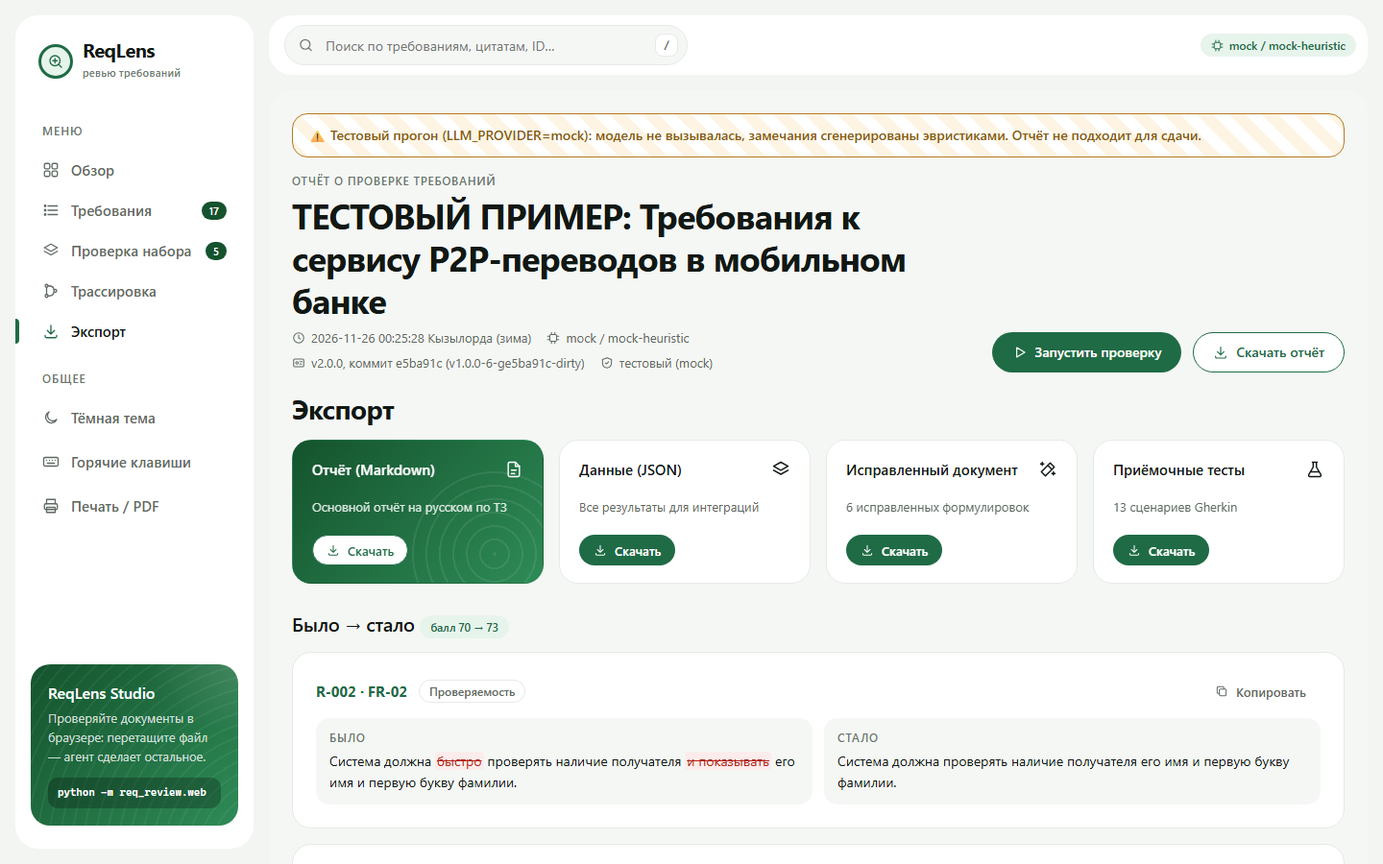
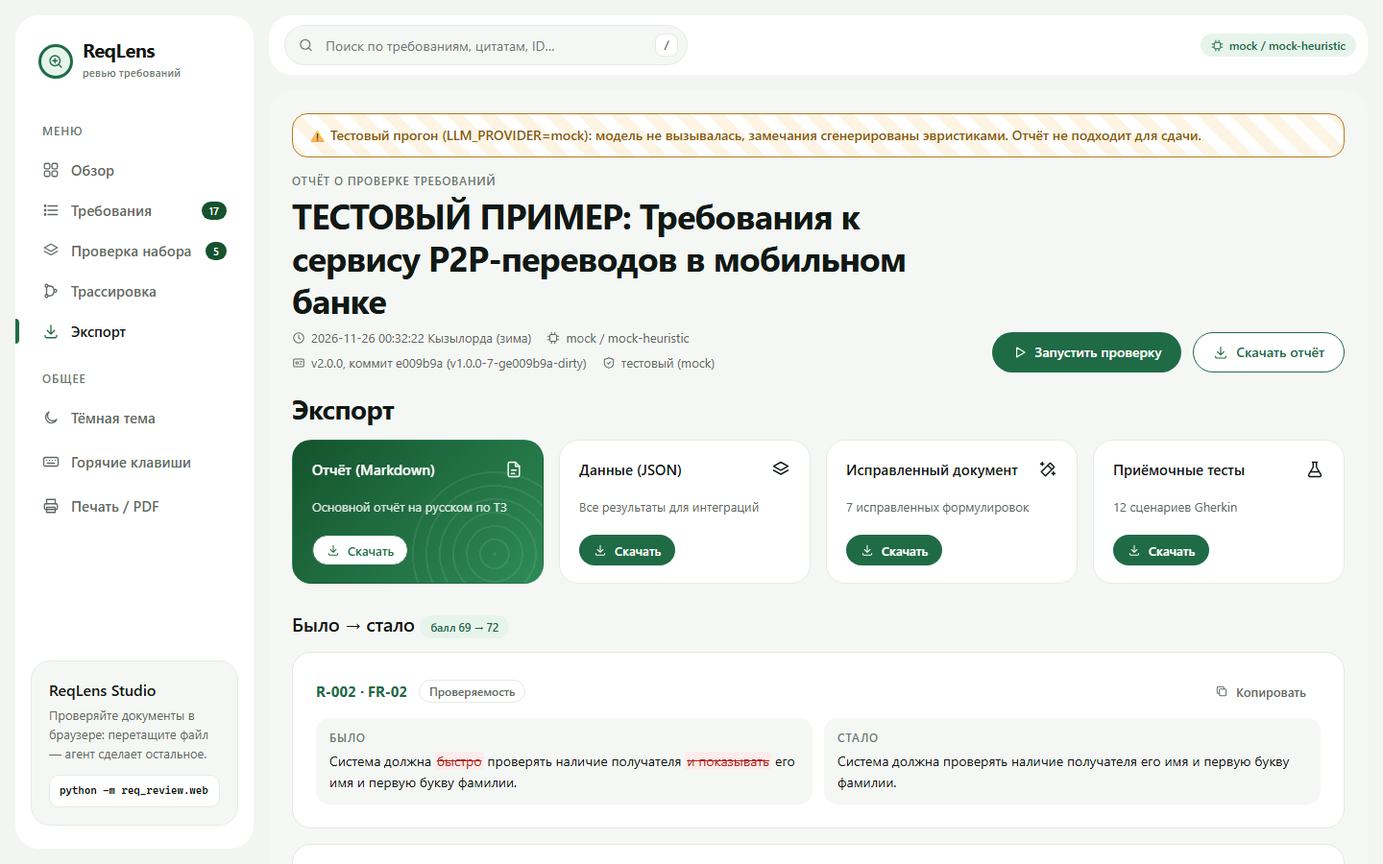
UI: нейтральные состояния, профиль качества полосами, легенда критериев; правило для целей без механизма (SEC-03)

Changed region(s): [[0.0, 0.7467, 0.1875, 0.9644], [0.2812, 0.4044, 0.5312, 0.4356]]

diff --git a/design/styleguide.html b/design/styleguide.html
@@ -63,6 +63,7 @@
   --ok: #136C3A;
   --ok-accent: #1F9D55;
   --ok-soft: #E7F6EE;
+  --neutral-bar: #D9DED9;
   --overlay: rgba(17,24,19,.32);
   color-scheme: light;
 }
@@ -93,6 +94,7 @@
   --ok: #136C3A;
   --ok-accent: #1F9D55;
   --ok-soft: #E7F6EE;
+  --neutral-bar: #D9DED9;
   --overlay: rgba(17,24,19,.32);
   color-scheme: light;
 }
@@ -123,6 +125,7 @@
   --ok: #6FD49A;
   --ok-accent: #1F9D55;
   --ok-soft: rgba(31,157,85,.16);
+  --neutral-bar: #3A4740;
   --overlay: rgba(0,0,0,.55);
   color-scheme: dark;
 }
@@ -170,10 +173,9 @@ button{font-family:inherit}
 .nav-item[aria-current=page]::before{content:"";position:absolute;left:-16px;top:8px;bottom:8px;width:4px;border-radius:0 4px 4px 0;background:var(--brand)}
 .nav-item[aria-current=page] .ic{color:var(--brand)}
 .nav-item .count{margin-left:auto;font:600 11px/1 var(--font-sans);padding:4px 8px;border-radius:999px;background:var(--brand-dark);color:#fff}
-.promo{margin-top:auto;border-radius:20px;padding:18px;color:#fff;background:radial-gradient(160px 120px at 100% 0%,rgba(255,255,255,.14),transparent 60%),
-  repeating-radial-gradient(circle at 120% 120%,rgba(255,255,255,.05) 0 2px,transparent 2px 12px),var(--grad-hero)}
-.promo .h3{color:#fff}.promo p{color:rgba(255,255,255,.78);font:var(--t-small);margin:4px 0 12px}
-.promo code{display:block;font:500 11px/16px var(--font-mono);background:rgba(0,0,0,.25);padding:8px 10px;border-radius:10px;color:#fff;word-break:break-all}
+.promo{margin-top:auto;border-radius:20px;padding:18px;background:var(--surface-2);border:1px solid var(--border);color:var(--text)}
+.promo .h3{color:var(--text)}.promo p{color:var(--text-2);font:var(--t-small);margin:4px 0 12px}
+.promo code{display:block;font:500 11px/16px var(--font-mono);background:var(--surface);border:1px solid var(--border);padding:8px 10px;border-radius:10px;color:var(--text);word-break:break-all}
 .main{min-width:0;background:var(--bg);display:flex;flex-direction:column;gap:16px}
 .topbar{display:flex;align-items:center;gap:12px;background:var(--surface);border-radius:var(--r-hero);padding:10px 12px 10px 16px}
 .topbar .search{max-width:420px}
@@ -477,6 +479,19 @@ pre.code{margin:0;padding:12px 14px;border-radius:12px;background:var(--surface-
 .pagebar .logo{padding:0}
 .kpi{min-width:0}.kpi .sub{flex-wrap:wrap}
 
+/* --- Нейтральные элементы, профиль качества, легенды, колонки обзора */
+.chip-neutral{background:transparent;color:var(--text-2);border-color:var(--border)}
+.prof-rows{display:flex;flex-direction:column;justify-content:space-around;flex:1;gap:6px}
+.prof-row{display:grid;grid-template-columns:minmax(150px,220px) 1fr 64px;gap:12px;align-items:center}
+.prof-row .bar{height:12px}
+.prof{display:flex;flex-direction:column}
+.legend,.crit-legend{display:flex;flex-wrap:wrap;gap:8px 16px;align-items:center;margin-top:14px}
+.legend i,.crit-legend i{display:inline-block;width:10px;height:10px;border-radius:3px;margin-right:6px;vertical-align:-1px}
+.crit-legend{margin:0 0 10px;justify-content:space-between}
+.col-fill{display:flex;flex-direction:column;gap:16px;min-width:0}
+.col-fill>:last-child{flex:1}
+@media (max-width:640px){.prof-row{grid-template-columns:1fr 56px}.prof-row .bar{grid-column:1/-1;grid-row:2}}
+
 .sg-section{padding:48px 0;border-bottom:1px solid var(--border)}
 .sg-h{display:flex;align-items:baseline;gap:12px;margin-bottom:24px}
 .swatches{display:grid;grid-template-columns:repeat(auto-fill,minmax(150px,1fr));gap:12px}
@@ -510,11 +525,11 @@ pre.code{margin:0;padding:12px 14px;border-radius:12px;background:var(--surface-
     
     <div class="caption" style="margin:16px 0 10px">light</div>
     <div class="swatches" data-theme="light" style="background:var(--bg);padding:16px;border-radius:16px">
-      <div class="sw"><i style="background:#F3F5F3"></i><div>--bg<br><code>#F3F5F3</code></div></div><div class="sw"><i style="background:#FFFFFF"></i><div>--surface<br><code>#FFFFFF</code></div></div><div class="sw"><i style="background:#F5F7F5"></i><div>--surface-2<br><code>#F5F7F5</code></div></div><div class="sw"><i style="background:#E6EAE7"></i><div>--border<br><code>#E6EAE7</code></div></div><div class="sw"><i style="background:#111813"></i><div>--text<br><code>#111813</code></div></div><div class="sw"><i style="background:#5E6A62"></i><div>--text-2<br><code>#5E6A62</code></div></div><div class="sw"><i style="background:#6B776F"></i><div>--text-3<br><code>#6B776F</code></div></div><div class="sw"><i style="background:#1F6B45"></i><div>--brand<br><code>#1F6B45</code></div></div><div class="sw"><i style="background:#14532D"></i><div>--brand-hover<br><code>#14532D</code></div></div><div class="sw"><i style="background:#14532D"></i><div>--brand-dark<br><code>#14532D</code></div></div><div class="sw"><i style="background:#3FA06B"></i><div>--brand-light<br><code>#3FA06B</code></div></div><div class="sw"><i style="background:#E7F4EC"></i><div>--brand-soft<br><code>#E7F4EC</code></div></div><div class="sw"><i style="background:#FFFFFF"></i><div>--on-brand<br><code>#FFFFFF</code></div></div><div class="sw"><i style="background:linear-gradient(135deg, #14532D 0%, #2E8B57 100%)"></i><div>--grad-hero<br><code>linear-gradient(135deg, #14532D 0%, #2E8B57 100%)</code></div></div><div class="sw"><i style="background:#B42318"></i><div>--critical<br><code>#B42318</code></div></div><div class="sw"><i style="background:#D64545"></i><div>--critical-accent<br><code>#D64545</code></div></div><div class="sw"><i style="background:#FDECEC"></i><div>--critical-soft<br><code>#FDECEC</code></div></div><div class="sw"><i style="background:#8A5A12"></i><div>--major<br><code>#8A5A12</code></div></div><div class="sw"><i style="background:#B7791F"></i><div>--major-accent<br><code>#B7791F</code></div></div><div class="sw"><i style="background:#FDF4E3"></i><div>--major-soft<br><code>#FDF4E3</code></div></div><div class="sw"><i style="background:#5F5A16"></i><div>--minor<br><code>#5F5A16</code></div></div><div class="sw"><i style="background:#B8A532"></i><div>--minor-accent<br><code>#B8A532</code></div></div><div class="sw"><i style="background:#F7F5E3"></i><div>--minor-soft<br><code>#F7F5E3</code></div></div><div class="sw"><i style="background:#136C3A"></i><div>--ok<br><code>#136C3A</code></div></div><div class="sw"><i style="background:#1F9D55"></i><div>--ok-accent<br><code>#1F9D55</code></div></div><div class="sw"><i style="background:#E7F6EE"></i><div>--ok-soft<br><code>#E7F6EE</code></div></div><div class="sw"><i style="background:rgba(17,24,19,.32)"></i><div>--overlay<br><code>rgba(17,24,19,.32)</code></div></div>
+      <div class="sw"><i style="background:#F3F5F3"></i><div>--bg<br><code>#F3F5F3</code></div></div><div class="sw"><i style="background:#FFFFFF"></i><div>--surface<br><code>#FFFFFF</code></div></div><div class="sw"><i style="background:#F5F7F5"></i><div>--surface-2<br><code>#F5F7F5</code></div></div><div class="sw"><i style="background:#E6EAE7"></i><div>--border<br><code>#E6EAE7</code></div></div><div class="sw"><i style="background:#111813"></i><div>--text<br><code>#111813</code></div></div><div class="sw"><i style="background:#5E6A62"></i><div>--text-2<br><code>#5E6A62</code></div></div><div class="sw"><i style="background:#6B776F"></i><div>--text-3<br><code>#6B776F</code></div></div><div class="sw"><i style="background:#1F6B45"></i><div>--brand<br><code>#1F6B45</code></div></div><div class="sw"><i style="background:#14532D"></i><div>--brand-hover<br><code>#14532D</code></div></div><div class="sw"><i style="background:#14532D"></i><div>--brand-dark<br><code>#14532D</code></div></div><div class="sw"><i style="background:#3FA06B"></i><div>--brand-light<br><code>#3FA06B</code></div></div><div class="sw"><i style="background:#E7F4EC"></i><div>--brand-soft<br><code>#E7F4EC</code></div></div><div class="sw"><i style="background:#FFFFFF"></i><div>--on-brand<br><code>#FFFFFF</code></div></div><div class="sw"><i style="background:linear-gradient(135deg, #14532D 0%, #2E8B57 100%)"></i><div>--grad-hero<br><code>linear-gradient(135deg, #14532D 0%, #2E8B57 100%)</code></div></div><div class="sw"><i style="background:#B42318"></i><div>--critical<br><code>#B42318</code></div></div><div class="sw"><i style="background:#D64545"></i><div>--critical-accent<br><code>#D64545</code></div></div><div class="sw"><i style="background:#FDECEC"></i><div>--critical-soft<br><code>#FDECEC</code></div></div><div class="sw"><i style="background:#8A5A12"></i><div>--major<br><code>#8A5A12</code></div></div><div class="sw"><i style="background:#B7791F"></i><div>--major-accent<br><code>#B7791F</code></div></div><div class="sw"><i style="background:#FDF4E3"></i><div>--major-soft<br><code>#FDF4E3</code></div></div><div class="sw"><i style="background:#5F5A16"></i><div>--minor<br><code>#5F5A16</code></div></div><div class="sw"><i style="background:#B8A532"></i><div>--minor-accent<br><code>#B8A532</code></div></div><div class="sw"><i style="background:#F7F5E3"></i><div>--minor-soft<br><code>#F7F5E3</code></div></div><div class="sw"><i style="background:#136C3A"></i><div>--ok<br><code>#136C3A</code></div></div><div class="sw"><i style="background:#1F9D55"></i><div>--ok-accent<br><code>#1F9D55</code></div></div><div class="sw"><i style="background:#E7F6EE"></i><div>--ok-soft<br><code>#E7F6EE</code></div></div><div class="sw"><i style="background:#D9DED9"></i><div>--neutral-bar<br><code>#D9DED9</code></div></div><div class="sw"><i style="background:rgba(17,24,19,.32)"></i><div>--overlay<br><code>rgba(17,24,19,.32)</code></div></div>
     </div>
     <div class="caption" style="margin:16px 0 10px">dark</div>
     <div class="swatches" data-theme="dark" style="background:var(--bg);padding:16px;border-radius:16px">
-      <div class="sw"><i style="background:#0E1410"></i><div>--bg<br><code>#0E1410</code></div></div><div class="sw"><i style="background:#151D18"></i><div>--surface<br><code>#151D18</code></div></div><div class="sw"><i style="background:#1B2620"></i><div>--surface-2<br><code>#1B2620</code></div></div><div class="sw"><i style="background:#26332B"></i><div>--border<br><code>#26332B</code></div></div><div class="sw"><i style="background:#EEF3EF"></i><div>--text<br><code>#EEF3EF</code></div></div><div class="sw"><i style="background:#A7B5AC"></i><div>--text-2<br><code>#A7B5AC</code></div></div><div class="sw"><i style="background:#93A198"></i><div>--text-3<br><code>#93A198</code></div></div><div class="sw"><i style="background:#4CC07F"></i><div>--brand<br><code>#4CC07F</code></div></div><div class="sw"><i style="background:#6FD49A"></i><div>--brand-hover<br><code>#6FD49A</code></div></div><div class="sw"><i style="background:#14532D"></i><div>--brand-dark<br><code>#14532D</code></div></div><div class="sw"><i style="background:#3FA06B"></i><div>--brand-light<br><code>#3FA06B</code></div></div><div class="sw"><i style="background:rgba(63,160,107,.16)"></i><div>--brand-soft<br><code>rgba(63,160,107,.16)</code></div></div><div class="sw"><i style="background:#0E1410"></i><div>--on-brand<br><code>#0E1410</code></div></div><div class="sw"><i style="background:linear-gradient(135deg, #14532D 0%, #2E8B57 100%)"></i><div>--grad-hero<br><code>linear-gradient(135deg, #14532D 0%, #2E8B57 100%)</code></div></div><div class="sw"><i style="background:#FF8A80"></i><div>--critical<br><code>#FF8A80</code></div></div><div class="sw"><i style="background:#D64545"></i><div>--critical-accent<br><code>#D64545</code></div></div><div class="sw"><i style="background:rgba(214,69,69,.16)"></i><div>--critical-soft<br><code>rgba(214,69,69,.16)</code></div></div><div class="sw"><i style="background:#F2C26B"></i><div>--major<br><code>#F2C26B</code></div></div><div class="sw"><i style="background:#B7791F"></i><div>--major-accent<br><code>#B7791F</code></div></div><div class="sw"><i style="background:rgba(183,121,31,.18)"></i><div>--major-soft<br><code>rgba(183,121,31,.18)</code></div></div><div class="sw"><i style="background:#E3D47A"></i><div>--minor<br><code>#E3D47A</code></div></div><div class="sw"><i style="background:#B8A532"></i><div>--minor-accent<br><code>#B8A532</code></div></div><div class="sw"><i style="background:rgba(184,165,50,.16)"></i><div>--minor-soft<br><code>rgba(184,165,50,.16)</code></div></div><div class="sw"><i style="background:#6FD49A"></i><div>--ok<br><code>#6FD49A</code></div></div><div class="sw"><i style="background:#1F9D55"></i><div>--ok-accent<br><code>#1F9D55</code></div></div><div class="sw"><i style="background:rgba(31,157,85,.16)"></i><div>--ok-soft<br><code>rgba(31,157,85,.16)</code></div></div><div class="sw"><i style="background:rgba(0,0,0,.55)"></i><div>--overlay<br><code>rgba(0,0,0,.55)</code></div></div>
+      <div class="sw"><i style="background:#0E1410"></i><div>--bg<br><code>#0E1410</code></div></div><div class="sw"><i style="background:#151D18"></i><div>--surface<br><code>#151D18</code></div></div><div class="sw"><i style="background:#1B2620"></i><div>--surface-2<br><code>#1B2620</code></div></div><div class="sw"><i style="background:#26332B"></i><div>--border<br><code>#26332B</code></div></div><div class="sw"><i style="background:#EEF3EF"></i><div>--text<br><code>#EEF3EF</code></div></div><div class="sw"><i style="background:#A7B5AC"></i><div>--text-2<br><code>#A7B5AC</code></div></div><div class="sw"><i style="background:#93A198"></i><div>--text-3<br><code>#93A198</code></div></div><div class="sw"><i style="background:#4CC07F"></i><div>--brand<br><code>#4CC07F</code></div></div><div class="sw"><i style="background:#6FD49A"></i><div>--brand-hover<br><code>#6FD49A</code></div></div><div class="sw"><i style="background:#14532D"></i><div>--brand-dark<br><code>#14532D</code></div></div><div class="sw"><i style="background:#3FA06B"></i><div>--brand-light<br><code>#3FA06B</code></div></div><div class="sw"><i style="background:rgba(63,160,107,.16)"></i><div>--brand-soft<br><code>rgba(63,160,107,.16)</code></div></div><div class="sw"><i style="background:#0E1410"></i><div>--on-brand<br><code>#0E1410</code></div></div><div class="sw"><i style="background:linear-gradient(135deg, #14532D 0%, #2E8B57 100%)"></i><div>--grad-hero<br><code>linear-gradient(135deg, #14532D 0%, #2E8B57 100%)</code></div></div><div class="sw"><i style="background:#FF8A80"></i><div>--critical<br><code>#FF8A80</code></div></div><div class="sw"><i style="background:#D64545"></i><div>--critical-accent<br><code>#D64545</code></div></div><div class="sw"><i style="background:rgba(214,69,69,.16)"></i><div>--critical-soft<br><code>rgba(214,69,69,.16)</code></div></div><div class="sw"><i style="background:#F2C26B"></i><div>--major<br><code>#F2C26B</code></div></div><div class="sw"><i style="background:#B7791F"></i><div>--major-accent<br><code>#B7791F</code></div></div><div class="sw"><i style="background:rgba(183,121,31,.18)"></i><div>--major-soft<br><code>rgba(183,121,31,.18)</code></div></div><div class="sw"><i style="background:#E3D47A"></i><div>--minor<br><code>#E3D47A</code></div></div><div class="sw"><i style="background:#B8A532"></i><div>--minor-accent<br><code>#B8A532</code></div></div><div class="sw"><i style="background:rgba(184,165,50,.16)"></i><div>--minor-soft<br><code>rgba(184,165,50,.16)</code></div></div><div class="sw"><i style="background:#6FD49A"></i><div>--ok<br><code>#6FD49A</code></div></div><div class="sw"><i style="background:#1F9D55"></i><div>--ok-accent<br><code>#1F9D55</code></div></div><div class="sw"><i style="background:rgba(31,157,85,.16)"></i><div>--ok-soft<br><code>rgba(31,157,85,.16)</code></div></div><div class="sw"><i style="background:#3A4740"></i><div>--neutral-bar<br><code>#3A4740</code></div></div><div class="sw"><i style="background:rgba(0,0,0,.55)"></i><div>--overlay<br><code>rgba(0,0,0,.55)</code></div></div>
     </div>
   </section>
 

diff --git a/req_review/ui/assets/report.js b/req_review/ui/assets/report.js
@@ -171,6 +171,26 @@
         <div class="grow"><div class="small" style="font-weight:600">${esc(c.name)}</div><div class="small faint">${esc(c.ref)}</div></div>
         ${c.count ? chip(c.worst, `${c.count} замеч.`) : chip("ok", "нарушений нет")}</div>`).join("")}</div>`;
   }
+  // «Профиль качества»: горизонтальные полосы с полными названиями; серые — в порядке, цветные — по тяжести
+  function profileHTML() {
+    const rows = D.scores.radar_req.map((r) => {
+      const fs = Object.values(D.findings).filter((f) => f.kind === "req" && f.criterion === r.key);
+      const worst = fs.length ? fs.reduce((a, f) => (ORDER[f.severity] < ORDER[a] ? f.severity : a), "minor") : "ok";
+      const nreq = new Set(fs.map((f) => f.rid)).size;
+      const name = r.name.replace(/\s*\(.*\)/, "");
+      const col = worst === "ok" ? "var(--neutral-bar)" : SEV[worst].color;
+      const st = worst === "ok" ? "в порядке" : `${SEV[worst].label.toLowerCase()}: ${nreq} треб.`;
+      return `<div class="prof-row" title="${esc(r.name)} — ${r.v}% требований без нарушений · ${esc(st)}">
+        <span class="small${worst === "ok" ? " muted" : ""}" style="font-weight:${worst === "ok" ? 400 : 600}">${esc(name)}</span>
+        <div class="bar"><i style="width:${Math.max(3, r.v)}%;background:${col}"></i></div>
+        <span class="small" style="text-align:right">${worst === "ok" ? `<span class="muted">${r.v}%</span>` : `${ic(SEV[worst].icon, 12)} ${r.v}%`}</span></div>`;
+    }).join("");
+    return `<div class="card prof"><div class="card-title">${ic("spark")}<span class="h2 grow">Профиль качества</span>
+        <span class="small muted">доля требований без нарушений</span></div>
+      <div class="prof-rows">${rows}</div>
+      <div class="legend small muted"><span><i style="background:var(--neutral-bar)"></i>в порядке</span><span><i style="background:${SEV.minor.color}"></i>незначительные</span>
+        <span><i style="background:${SEV.major.color}"></i>существенные</span><span><i style="background:${SEV.critical.color}"></i>критичные</span></div></div>`;
+  }
   function renderOverview(el) {
     const s = D.scores, v = D.verdict;
     // статус прогона агента (не готовность документа): ЗАВЕРШЁН / ОШИБКА
@@ -187,8 +207,8 @@
         ${kpi("Критичных", crit, `${ic("alert", 14)}непроверяемые, противоречивые, неполные`, false, "reqs", crit ? "var(--critical)" : "var(--ok)")}
         ${kpi("Без замечаний", cleanReqs, `<b>${Math.round((100 * cleanReqs) / Math.max(1, D.reqs.length))}%</b>из ${D.reqs.length} требований`, false, "reqs", "var(--ok)")}
       </div>
-      <div class="grid" style="grid-template-columns:minmax(0,1fr) minmax(280px,360px);margin-top:16px;align-items:start" id="ov-grid">
-        <div class="stack" style="min-width:0">
+      <div class="grid" style="grid-template-columns:minmax(0,1fr) minmax(280px,360px);margin-top:16px;align-items:stretch" id="ov-grid">
+        <div class="col-fill" style="min-width:0">
           <article class="agent" aria-label="Агент проверки требований">
             <span class="status ${agentStatus[0]}">${ic(agentStatus[1], 12)}${agentStatus[2]}</span>
             <div class="vis">${sphere(320, 260, 520, 7)}</div>
@@ -215,21 +235,20 @@
                 <div class="h3">Приёмочные тесты</div><div class="small muted">${s.tests_ok} из ${s.tests_total} требований можно проверить тестом</div>
                 <button class="btn btn-sm btn-ghost" style="align-self:flex-start;margin-top:auto" data-go-view="trace">Открыть ${ic("arrow-right", 14)}</button></div></article>
           </div>
+          ${profileHTML()}
         </div>
-        <div class="stack">
+        <div class="col-fill">
           <div class="card"><div class="card-title">${ic("trace")}<span class="h2 grow">Трассировка агента</span><span class="chip chip-brand">${D.trace.filter((t) => t.status !== "skip").length}/${D.trace.length}</span></div>${traceHTML()}</div>
-          <div class="card"><div class="card-title">${ic("spark")}<span class="h2">Профиль качества</span></div>
-            <div class="bars" role="img" aria-label="Доля требований без нарушений по критериям">${radar.map((r, i) => `<div class="b" data-tip="${esc(r.name)}: ${r.v}%"><i class="${r.v < 70 ? "hatch" : ""}" style="height:${Math.max(10, r.v)}%;${r.v >= 70 ? `opacity:${0.55 + r.v / 220}` : ""}"></i><span>${esc(r.name.slice(0, 3))}</span></div>`).join("")}</div>
-            <p class="small faint" style="margin-top:10px">Сплошные — критерий в порядке (≥ 70 % требований без нарушений), штрихованные — проблемные.</p></div>
           ${D.changes.length ? `<div class="card" style="display:flex;gap:14px;align-items:center"><span class="logo-mark" style="border-radius:14px;flex:none">${ic("wand")}</span>
             <div class="grow"><div class="caption">Исправленный документ</div><div class="small muted">${D.changes.length} формулировок исправлено${D.rescore ? ` · балл ${D.rescore.before} → ${D.rescore.after}` : ""}</div></div>
             <button class="btn btn-round" data-dl="fixed" aria-label="Скачать исправленный документ">${ic("download", 16)}</button></div>` : ""}
+          ${setSummaryHTML()}
         </div>
       </div>
       <div class="section-title"><h2 class="h1">Требования</h2><div class="row"><span class="small muted hide-sm">${D.reqs.length} шт.</span>
         <button class="btn btn-sm btn-outline" data-go-view="reqs">Все фильтры ${ic("arrow-right", 14)}</button></div></div>
       ${reqTable(D.reqs, "ov")}
-      <div class="grid g-2" style="margin-top:16px;align-items:start">${setSummaryHTML()}${verdictHTML(true)}</div>`;
+      <div style="margin-top:16px">${verdictHTML(true)}</div>`;
     wireTable(el);
   }
 
@@ -238,9 +257,16 @@
     return `<div class="crit-dots" aria-label="Критерии">${D.criteria.map((c) => {
       const fs = r.findings.map((id) => D.findings[id]).filter((x) => x.criterion === c.key);
       const s = fs.length ? fs.reduce((a, x) => (ORDER[x.severity] < ORDER[a] ? x.severity : a), "minor") : "ok";
-      return `<i data-tip="${esc(c.name)}: ${s === "ok" ? "в порядке" : SEV[s].label.toLowerCase()}" style="background:${s === "ok" ? "var(--ok-soft)" : SEV[s].color}"></i>`;
+      const tip = `${D.criteria.indexOf(c) + 1}. ${c.name}: ${s === "ok" ? "в порядке" : SEV[s].label.toLowerCase()}`;
+      return `<i title="${esc(tip)}" style="background:${s === "ok" ? "var(--neutral-bar)" : SEV[s].color}"></i>`;
     }).join("")}</div>`;
   }
+  // нейтральный вид для «чистых» требований: серый круг 100 и бейдж без заливки
+  const statusChip = (s) => (s === "ok" ? `<span class="chip chip-neutral">${ic("check", 13)}Без замечаний</span>` : chip(s));
+  const ring = (v) => `<div class="mini-ring" style="--v:${v};--c:${v >= 100 ? "var(--neutral-bar)" : scoreColor(v)}"><span${v >= 100 ? ' style="color:var(--text-2);font-weight:600"' : ""}>${v}</span></div>`;
+  const critLegend = () => `<div class="crit-legend small muted" aria-label="Легенда колонки «Критерии»">
+    <span><b>Критерии</b> (слева направо): ${D.criteria.map((c, i) => `${i + 1}. ${esc(c.name.replace(/\s*\(.*\)/, ""))}`).join(" · ")}</span>
+    <span class="row" style="gap:12px"><span><i style="background:var(--neutral-bar)"></i>в порядке</span><span><i style="background:${SEV.minor.color}"></i>незначит.</span><span><i style="background:${SEV.major.color}"></i>существ.</span><span><i style="background:${SEV.critical.color}"></i>критичное</span><span>· наведите на квадратик</span></span></div>`;
   function gherkin(g) { return esc(g).replace(/^(\s*)(Дано|Когда|Тогда|И|Но|Given|When|Then|And|But)(:?)/gm, "$1<b>$2$3</b>"); }
   function expandHTML(r) {
     const t = r.test;
@@ -260,15 +286,15 @@
   }
   function reqTable(rows, key) {
     if (!rows.length) return empty("Ничего не найдено", "Измените фильтры или запрос.");
-    return `<div class="table-wrap"><table class="tbl" data-tbl="${key}"><thead><tr>
+    return `${critLegend()}<div class="table-wrap"><table class="tbl" data-tbl="${key}"><thead><tr>
       <th scope="col">ID в отчёте</th><th scope="col">ID в документе</th><th scope="col">Краткая формулировка</th>
-      <th scope="col">Критерии</th><th scope="col">Балл</th><th scope="col">Статус</th><th scope="col"><span class="sr-only">Действия</span></th></tr></thead>
+      <th scope="col" title="${esc(D.criteria.map((c, i) => `${i + 1}. ${c.name}`).join("\n"))}">Критерии ⓘ</th><th scope="col">Балл</th><th scope="col">Статус</th><th scope="col"><span class="sr-only">Действия</span></th></tr></thead>
       <tbody>${rows.map((r) => `<tr class="rrow" data-rid="${r.rid}" id="row-${key}-${r.rid}">
         <td><b>${esc(r.rid)}</b></td><td>${r.doc_id ? `<span class="chip chip-brand">${esc(r.doc_id)}</span>` : `<span class="small faint">присвоен агентом</span>`}</td>
         <td style="min-width:260px;max-width:460px">${esc(r.text.length > 120 ? r.text.slice(0, 117) + "…" : r.text)}</td>
         <td>${critDots(r)}</td>
-        <td><div class="mini-ring" style="--v:${r.score};--c:${scoreColor(r.score)}"><span>${r.score}</span></div></td>
-        <td>${chip(r.worst)}</td>
+        <td>${ring(r.score)}</td>
+        <td>${statusChip(r.worst)}</td>
         <td><button class="btn btn-sm btn-outline" data-exp="${r.rid}" aria-expanded="false" aria-controls="exp-${key}-${r.rid}">Подробнее ${ic("chevron", 14)}</button></td></tr>
         <tr class="exp" id="exp-${key}-${r.rid}" hidden><td colspan="7">${expandHTML(r)}</td></tr>`).join("")}</tbody></table></div>`;
   }

diff --git a/bench/results.html b/bench/results.html
@@ -57,6 +57,7 @@
   --ok: #136C3A;
   --ok-accent: #1F9D55;
   --ok-soft: #E7F6EE;
+  --neutral-bar: #D9DED9;
   --overlay: rgba(17,24,19,.32);
   color-scheme: light;
 }
@@ -87,6 +88,7 @@
   --ok: #136C3A;
   --ok-accent: #1F9D55;
   --ok-soft: #E7F6EE;
+  --neutral-bar: #D9DED9;
   --overlay: rgba(17,24,19,.32);
   color-scheme: light;
 }
@@ -117,6 +119,7 @@
   --ok: #6FD49A;
   --ok-accent: #1F9D55;
   --ok-soft: rgba(31,157,85,.16);
+  --neutral-bar: #3A4740;
   --overlay: rgba(0,0,0,.55);
   color-scheme: dark;
 }
@@ -163,10 +166,9 @@ button{font-family:inherit}
 .nav-item[aria-current=page]::before{content:"";position:absolute;left:-16px;top:8px;bottom:8px;width:4px;border-radius:0 4px 4px 0;background:var(--brand)}
 .nav-item[aria-current=page] .ic{color:var(--brand)}
 .nav-item .count{margin-left:auto;font:600 11px/1 var(--font-sans);padding:4px 8px;border-radius:999px;background:var(--brand-dark);color:#fff}
-.promo{margin-top:auto;border-radius:20px;padding:18px;color:#fff;background:radial-gradient(160px 120px at 100% 0%,rgba(255,255,255,.14),transparent 60%),
-  repeating-radial-gradient(circle at 120% 120%,rgba(255,255,255,.05) 0 2px,transparent 2px 12px),var(--grad-hero)}
-.promo .h3{color:#fff}.promo p{color:rgba(255,255,255,.78);font:var(--t-small);margin:4px 0 12px}
-.promo code{display:block;font:500 11px/16px var(--font-mono);background:rgba(0,0,0,.25);padding:8px 10px;border-radius:10px;color:#fff;word-break:break-all}
+.promo{margin-top:auto;border-radius:20px;padding:18px;background:var(--surface-2);border:1px solid var(--border);color:var(--text)}
+.promo .h3{color:var(--text)}.promo p{color:var(--text-2);font:var(--t-small);margin:4px 0 12px}
+.promo code{display:block;font:500 11px/16px var(--font-mono);background:var(--surface);border:1px solid var(--border);padding:8px 10px;border-radius:10px;color:var(--text);word-break:break-all}
 .main{min-width:0;background:var(--bg);display:flex;flex-direction:column;gap:16px}
 .topbar{display:flex;align-items:center;gap:12px;background:var(--surface);border-radius:var(--r-hero);padding:10px 12px 10px 16px}
 .topbar .search{max-width:420px}
@@ -469,10 +471,23 @@ pre.code{margin:0;padding:12px 14px;border-radius:12px;background:var(--surface-
 .pagebar{display:flex;align-items:center;gap:12px;background:var(--surface);border-radius:var(--r-hero);padding:14px 20px;margin:16px auto;max-width:var(--max-width)}
 .pagebar .logo{padding:0}
 .kpi{min-width:0}.kpi .sub{flex-wrap:wrap}
+
+/* --- Нейтральные элементы, профиль качества, легенды, колонки обзора */
+.chip-neutral{background:transparent;color:var(--text-2);border-color:var(--border)}
+.prof-rows{display:flex;flex-direction:column;justify-content:space-around;flex:1;gap:6px}
+.prof-row{display:grid;grid-template-columns:minmax(150px,220px) 1fr 64px;gap:12px;align-items:center}
+.prof-row .bar{height:12px}
+.prof{display:flex;flex-direction:column}
+.legend,.crit-legend{display:flex;flex-wrap:wrap;gap:8px 16px;align-items:center;margin-top:14px}
+.legend i,.crit-legend i{display:inline-block;width:10px;height:10px;border-radius:3px;margin-right:6px;vertical-align:-1px}
+.crit-legend{margin:0 0 10px;justify-content:space-between}
+.col-fill{display:flex;flex-direction:column;gap:16px;min-width:0}
+.col-fill>:last-child{flex:1}
+@media (max-width:640px){.prof-row{grid-template-columns:1fr 56px}.prof-row .bar{grid-column:1/-1;grid-row:2}}
 </style></head><body>
 <header class="pagebar"><div class="logo"><span class="logo-mark"><svg class="ic " width="18" height="18" viewBox="0 0 24 24" fill="none" stroke="currentColor" stroke-width="1.75" stroke-linecap="round" stroke-linejoin="round" aria-hidden="true"><circle cx="11" cy="11" r="7"/><path d="m20 20-3.5-3.5"/><path d="M8 11h6M11 8v6"/></svg></span><span>ReqLens<small>Бенчмарк точности</small></span></div></header>
 <main class="container" style="padding:40px 24px">
-<div class="caption">mock / mock-heuristic · v2.0.0, коммит 956571d (v1.0.0-5-g956571d-dirty)</div><h1 class="display" style="margin:8px 0 24px">Насколько точен агент</h1>
+<div class="caption">mock / mock-heuristic · v2.0.0, коммит e009b9a (v1.0.0-7-ge009b9a-dirty)</div><h1 class="display" style="margin:8px 0 24px">Насколько точен агент</h1>
 <div class="grid g-4" style="margin-bottom:32px">
  <article class="kpi kpi-hero"><span class="lbl">Recall</span><div class="kpi-num">69 %</div><div class="sub">доля найденных внедрённых дефектов</div></article>
  <div class="stat"><div class="caption">Precision</div><div class="v">100 %</div></div>

diff --git a/docs/slides.html b/docs/slides.html
@@ -63,6 +63,7 @@
   --ok: #136C3A;
   --ok-accent: #1F9D55;
   --ok-soft: #E7F6EE;
+  --neutral-bar: #D9DED9;
   --overlay: rgba(17,24,19,.32);
   color-scheme: light;
 }
@@ -93,6 +94,7 @@
   --ok: #136C3A;
   --ok-accent: #1F9D55;
   --ok-soft: #E7F6EE;
+  --neutral-bar: #D9DED9;
   --overlay: rgba(17,24,19,.32);
   color-scheme: light;
 }
@@ -123,6 +125,7 @@
   --ok: #6FD49A;
   --ok-accent: #1F9D55;
   --ok-soft: rgba(31,157,85,.16);
+  --neutral-bar: #3A4740;
   --overlay: rgba(0,0,0,.55);
   color-scheme: dark;
 }
@@ -170,10 +173,9 @@ button{font-family:inherit}
 .nav-item[aria-current=page]::before{content:"";position:absolute;left:-16px;top:8px;bottom:8px;width:4px;border-radius:0 4px 4px 0;background:var(--brand)}
 .nav-item[aria-current=page] .ic{color:var(--brand)}
 .nav-item .count{margin-left:auto;font:600 11px/1 var(--font-sans);padding:4px 8px;border-radius:999px;background:var(--brand-dark);color:#fff}
-.promo{margin-top:auto;border-radius:20px;padding:18px;color:#fff;background:radial-gradient(160px 120px at 100% 0%,rgba(255,255,255,.14),transparent 60%),
-  repeating-radial-gradient(circle at 120% 120%,rgba(255,255,255,.05) 0 2px,transparent 2px 12px),var(--grad-hero)}
-.promo .h3{color:#fff}.promo p{color:rgba(255,255,255,.78);font:var(--t-small);margin:4px 0 12px}
-.promo code{display:block;font:500 11px/16px var(--font-mono);background:rgba(0,0,0,.25);padding:8px 10px;border-radius:10px;color:#fff;word-break:break-all}
+.promo{margin-top:auto;border-radius:20px;padding:18px;background:var(--surface-2);border:1px solid var(--border);color:var(--text)}
+.promo .h3{color:var(--text)}.promo p{color:var(--text-2);font:var(--t-small);margin:4px 0 12px}
+.promo code{display:block;font:500 11px/16px var(--font-mono);background:var(--surface);border:1px solid var(--border);padding:8px 10px;border-radius:10px;color:var(--text);word-break:break-all}
 .main{min-width:0;background:var(--bg);display:flex;flex-direction:column;gap:16px}
 .topbar{display:flex;align-items:center;gap:12px;background:var(--surface);border-radius:var(--r-hero);padding:10px 12px 10px 16px}
 .topbar .search{max-width:420px}
@@ -476,6 +478,19 @@ pre.code{margin:0;padding:12px 14px;border-radius:12px;background:var(--surface-
 .pagebar{display:flex;align-items:center;gap:12px;background:var(--surface);border-radius:var(--r-hero);padding:14px 20px;margin:16px auto;max-width:var(--max-width)}
 .pagebar .logo{padding:0}
 .kpi{min-width:0}.kpi .sub{flex-wrap:wrap}
+
+/* --- Нейтральные элементы, профиль качества, легенды, колонки обзора */
+.chip-neutral{background:transparent;color:var(--text-2);border-color:var(--border)}
+.prof-rows{display:flex;flex-direction:column;justify-content:space-around;flex:1;gap:6px}
+.prof-row{display:grid;grid-template-columns:minmax(150px,220px) 1fr 64px;gap:12px;align-items:center}
+.prof-row .bar{height:12px}
+.prof{display:flex;flex-direction:column}
+.legend,.crit-legend{display:flex;flex-wrap:wrap;gap:8px 16px;align-items:center;margin-top:14px}
+.legend i,.crit-legend i{display:inline-block;width:10px;height:10px;border-radius:3px;margin-right:6px;vertical-align:-1px}
+.crit-legend{margin:0 0 10px;justify-content:space-between}
+.col-fill{display:flex;flex-direction:column;gap:16px;min-width:0}
+.col-fill>:last-child{flex:1}
+@media (max-width:640px){.prof-row{grid-template-columns:1fr 56px}.prof-row .bar{grid-column:1/-1;grid-row:2}}
 
 html,body{height:100%;overflow:hidden}
 .deck{height:100vh;position:relative}

diff --git a/req_review/ui/assets/base.css b/req_review/ui/assets/base.css
@@ -41,10 +41,9 @@ button{font-family:inherit}
 .nav-item[aria-current=page]::before{content:"";position:absolute;left:-16px;top:8px;bottom:8px;width:4px;border-radius:0 4px 4px 0;background:var(--brand)}
 .nav-item[aria-current=page] .ic{color:var(--brand)}
 .nav-item .count{margin-left:auto;font:600 11px/1 var(--font-sans);padding:4px 8px;border-radius:999px;background:var(--brand-dark);color:#fff}
-.promo{margin-top:auto;border-radius:20px;padding:18px;color:#fff;background:radial-gradient(160px 120px at 100% 0%,rgba(255,255,255,.14),transparent 60%),
-  repeating-radial-gradient(circle at 120% 120%,rgba(255,255,255,.05) 0 2px,transparent 2px 12px),var(--grad-hero)}
-.promo .h3{color:#fff}.promo p{color:rgba(255,255,255,.78);font:var(--t-small);margin:4px 0 12px}
-.promo code{display:block;font:500 11px/16px var(--font-mono);background:rgba(0,0,0,.25);padding:8px 10px;border-radius:10px;color:#fff;word-break:break-all}
+.promo{margin-top:auto;border-radius:20px;padding:18px;background:var(--surface-2);border:1px solid var(--border);color:var(--text)}
+.promo .h3{color:var(--text)}.promo p{color:var(--text-2);font:var(--t-small);margin:4px 0 12px}
+.promo code{display:block;font:500 11px/16px var(--font-mono);background:var(--surface);border:1px solid var(--border);padding:8px 10px;border-radius:10px;color:var(--text);word-break:break-all}
 .main{min-width:0;background:var(--bg);display:flex;flex-direction:column;gap:16px}
 .topbar{display:flex;align-items:center;gap:12px;background:var(--surface);border-radius:var(--r-hero);padding:10px 12px 10px 16px}
 .topbar .search{max-width:420px}
@@ -347,3 +346,16 @@ pre.code{margin:0;padding:12px 14px;border-radius:12px;background:var(--surface-
 .pagebar{display:flex;align-items:center;gap:12px;background:var(--surface);border-radius:var(--r-hero);padding:14px 20px;margin:16px auto;max-width:var(--max-width)}
 .pagebar .logo{padding:0}
 .kpi{min-width:0}.kpi .sub{flex-wrap:wrap}
+
+/* --- Нейтральные элементы, профиль качества, легенды, колонки обзора */
+.chip-neutral{background:transparent;color:var(--text-2);border-color:var(--border)}
+.prof-rows{display:flex;flex-direction:column;justify-content:space-around;flex:1;gap:6px}
+.prof-row{display:grid;grid-template-columns:minmax(150px,220px) 1fr 64px;gap:12px;align-items:center}
+.prof-row .bar{height:12px}
+.prof{display:flex;flex-direction:column}
+.legend,.crit-legend{display:flex;flex-wrap:wrap;gap:8px 16px;align-items:center;margin-top:14px}
+.legend i,.crit-legend i{display:inline-block;width:10px;height:10px;border-radius:3px;margin-right:6px;vertical-align:-1px}
+.crit-legend{margin:0 0 10px;justify-content:space-between}
+.col-fill{display:flex;flex-direction:column;gap:16px;min-width:0}
+.col-fill>:last-child{flex:1}
+@media (max-width:640px){.prof-row{grid-template-columns:1fr 56px}.prof-row .bar{grid-column:1/-1;grid-row:2}}

diff --git a/req_review/ui/tokens.css b/req_review/ui/tokens.css
@@ -57,6 +57,7 @@
   --ok: #136C3A;
   --ok-accent: #1F9D55;
   --ok-soft: #E7F6EE;
+  --neutral-bar: #D9DED9;
   --overlay: rgba(17,24,19,.32);
   color-scheme: light;
 }
@@ -87,6 +88,7 @@
   --ok: #136C3A;
   --ok-accent: #1F9D55;
   --ok-soft: #E7F6EE;
+  --neutral-bar: #D9DED9;
   --overlay: rgba(17,24,19,.32);
   color-scheme: light;
 }
@@ -117,6 +119,7 @@
   --ok: #6FD49A;
   --ok-accent: #1F9D55;
   --ok-soft: rgba(31,157,85,.16);
+  --neutral-bar: #3A4740;
   --overlay: rgba(0,0,0,.55);
   color-scheme: dark;
 }

diff --git a/req_review/rules.py b/req_review/rules.py
@@ -65,6 +65,14 @@ RULES: list[Rule] = [
        "complete", "minor",
        "Общая формулировка «поддерживать/обеспечивать возможность» не описывает конкретное поведение системы.",
        "Описать конкретное действие: кто, что делает, при каком условии, с каким результатом."),
+    # --- декларация цели без механизма и критерия («обеспечивать защиту от мошенничества»)
+    _R(r"\b((?:обеспечива\w*|обеспеч\w*|гарантир\w*|поддержива\w*)\s+(?:\w+\s+)?(?:защит\w*|безопасност\w*|надёжност\w*|надежност\w*|"
+       r"конфиденциальност\w*|целостност\w*|сохранност\w*|качеств\w*|контрол\w*|соответстви\w*|предотвращени\w*|противодействи\w*)"
+       r"|защит\w* от\s+\w+|противодейств\w* \w+|предотвраща\w* \w+)",
+       "verifiable", "critical",
+       "Декларация цели без механизма и критерия приёмки: не указано, от каких угроз/сценариев, какими мерами и как проверить выполнение.",
+       "Перечислить конкретные сценарии и меры (например: «при N неудачных попытках — блокировка на M минут», «операции свыше X тенге — "
+       "проверка антифрод-системой не дольше T с») и измеримый критерий приёмки."),
     # --- проектные решения в требованиях
     _R(r"\b(MySQL|PostgreSQL|Oracle|MongoDB|Redis|Kafka|RabbitMQ|React|Angular|Vue|Django|FastAPI|Spring|Java|Python|PHP|\.NET|Kotlin|Swift|Docker|Kubernetes|AWS|Azure|микросервис\w*|монолит\w*|REST(?:ful)?|GraphQL|SOAP|Excel|кнопк\w*|выпадающ\w* спис\w*|чекбокс\w*|вкладк\w*)\b",
        "appropriate", "minor",

diff --git a/tests/test_reqlens.py b/tests/test_reqlens.py
@@ -192,3 +192,18 @@ def test_html_highlights_every_finding(rv):
 def test_tokens_css_has_both_themes():
     css = tokens_css()
     assert "--brand: #1F6B45" in css and '[data-theme="dark"]' in css and "--grad-hero:" in css
+
+
+def test_vague_goal_without_mechanism_is_unverifiable():
+    # R-017 / SEC-03: «обеспечивать защиту от мошенничества» — цель без механизма и критерия приёмки
+    from req_review.reader import read_document
+    from req_review.splitter import split_requirements
+
+    hits = check_requirement(_req("Система должна обеспечивать защиту от мошенничества."))
+    assert any(h.criterion == "verifiable" and h.severity == "critical" for h in hits)
+    s = split_requirements(read_document(FIX))
+    sec03 = next(r for r in s.requirements if r.doc_id == "SEC-03")
+    assert any(h.criterion == "verifiable" for h in check_requirement(sec03))
+    # конкретное требование с числами не должно ловиться этим правилом
+    ok = check_requirement(_req("После 5 неверных вводов кода операция должна блокироваться на 30 минут."))
+    assert not any(h.criterion == "verifiable" for h in ok)

diff --git a/bench/RESULTS.md b/bench/RESULTS.md
@@ -1,6 +1,6 @@
 # Бенчмарк точности ReqLens
 
-*Модель:* mock / mock-heuristic · *агент:* v2.0.0, коммит 956571d (v1.0.0-5-g956571d-dirty) · *дата:* 2026-11-26 00:20
+*Модель:* mock / mock-heuristic · *агент:* v2.0.0, коммит e009b9a (v1.0.0-7-ge009b9a-dirty) · *дата:* 2026-11-26 00:32
 
 Документ `bench/seeded.md` — вымышленный документ с **заранее известными** дефектами (`bench/inject.py`).
 Recall — доля внедрённых дефектов, найденных агентом по нужному критерию. Precision — доля верных замечаний среди
